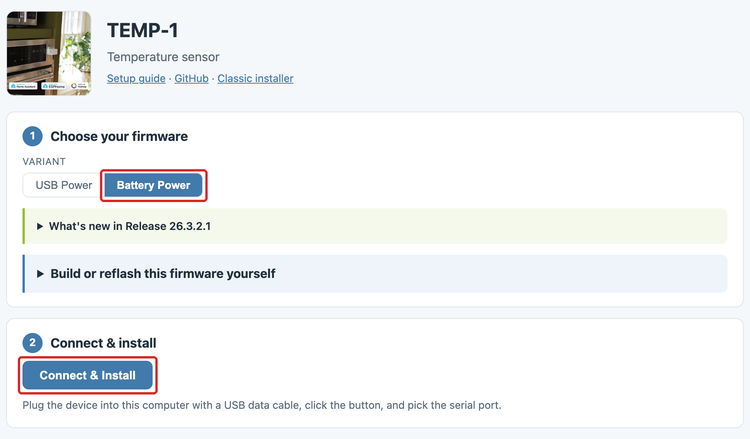
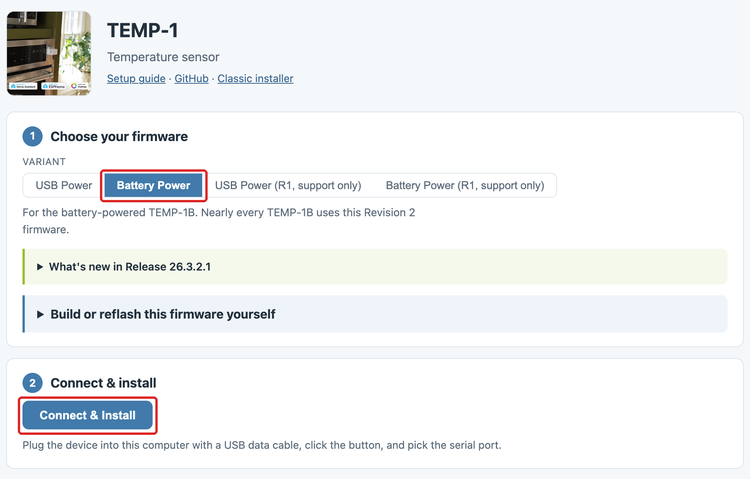
docs: point TEMP-1 Revision 1 owners at the installer's R1 options
installer#32 added "USB Power (R1, support only)" and "Battery Power
(R1, support only)" to install.apolloautomation.com/#/temp-1, so the
TEMP-1 and TEMP-1B reflash pages (Home Assistant and Homey) no longer
send Revision 1 owners to the classic installer. The tips name the R1
options, say they're for support-confirmed boards only, and warn that
the R1 firmware makes the Food Probe read far off on an R2 board.

- Retake installer-temp-1-usb-power.png and -battery-power.png from the
  live installer, which now shows four variant buttons and their notes.
- Style guide: R1 is no longer an exception to the installer rule.

Changed region(s): [[0.0307, 0.2665, 0.736, 0.6811], [0.0, 0.0, 0.3987, 0.2369], [0.0, 0.7403, 0.6747, 0.9476]]

diff --git a/docs/homey/products/temp1/troubleshooting/temp1-code.md b/docs/homey/products/temp1/troubleshooting/temp1-code.md
@@ -20,7 +20,7 @@ Follow these steps to put your device in boot mode and install the factory firmw
 
 !!! tip "Use R2 version unless instructed to use R1 by support!"
 
-    The Apollo installer installs the Revision 2 (R2) firmware. R2 is what all of our devices use except a very small batch of TEMP-1 and TEMP-1B boards. If support tells you your board needs Revision 1 (R1), click **Connect** under **Non Battery Firmware Revision 1** on the [classic TEMP-1 installer](https://apolloautomation.github.io/TEMP-1/) instead. In the next steps, the firmware option is named **Install ApolloAutomation.TEMP-1**.
+    The **USB Power** option installs the Revision 2 (R2) firmware, which nearly every TEMP-1 uses. A very small batch of early TEMP-1 and TEMP-1B boards needs Revision 1 (R1). Only if Apollo support confirms yours is one of them, choose **USB Power (R1, support only)** instead. On an R2 board, the R1 firmware makes the Food Probe read far off. With R1, the firmware option in the next steps is named **Install ApolloAutomation.TEMP-1**.
 
 ![TEMP-1 page of the Apollo installer with the USB Power variant and the Connect & Install button outlined in red](/assets/installer-temp-1-usb-power.png)
 

diff --git a/docs/products/temp1/troubleshooting/temp1-code.md b/docs/products/temp1/troubleshooting/temp1-code.md
@@ -23,7 +23,7 @@ Follow these steps to put your TEMP-1 in boot mode, flash the factory firmware f
 
 !!! tip "Use R2 unless support tells you to use R1"
 
-    The Apollo installer installs the Revision 2 (R2) firmware. R2 is what all of our devices use, except a very small batch of TEMP-1 and TEMP-1B boards. Support will tell you if yours needs Revision 1 (R1). If it does, click **Connect** under **Non Battery Firmware Revision 1** on the [classic TEMP-1 installer](https://apolloautomation.github.io/TEMP-1/) instead. In the next steps, the firmware option is named **Install ApolloAutomation.TEMP-1**.
+    The **USB Power** option installs the Revision 2 (R2) firmware, which nearly every TEMP-1 uses. A very small batch of early TEMP-1 and TEMP-1B boards needs Revision 1 (R1). Only if Apollo support confirms yours is one of them, choose **USB Power (R1, support only)** instead. On an R2 board, the R1 firmware makes the Food Probe read far off. With R1, the firmware option in the next steps is named **Install ApolloAutomation.TEMP-1**.
 
 4\. In the browser's serial port pop-up, select the open COM port (**USB JTAG/serial debug unit** in the screenshot below), then click **Connect**.
 

diff --git a/docs/homey/products/temp1b/troubleshooting/temp1b-code.md b/docs/homey/products/temp1b/troubleshooting/temp1b-code.md
@@ -24,7 +24,7 @@ If your device has already been added to Homey, please <a href="https://wiki.apo
 
 !!! tip "Use R2 version unless instructed to use R1 by support!"
 
-    The Apollo installer installs the Revision 2 (R2) firmware. R2 is what all of our devices use except a very small batch of TEMP-1 and TEMP-1B boards. If support tells you your board needs Revision 1 (R1), click **Connect** under **Battery Firmware Revision 1** on the [classic TEMP-1 installer](https://apolloautomation.github.io/TEMP-1/) instead. In the next steps, the firmware option is named **Install ApolloAutomation.TEMP-1B**.
+    The **Battery Power** option installs the Revision 2 (R2) firmware, which nearly every TEMP-1B uses. A very small batch of early TEMP-1 and TEMP-1B boards needs Revision 1 (R1). Only if Apollo support confirms yours is one of them, choose **Battery Power (R1, support only)** instead. On an R2 board, the R1 firmware makes the Food Probe read far off. With R1, the firmware option in the next steps is named **Install ApolloAutomation.TEMP-1B**.
 
 4\. Select the open com port then click Connect.
 

diff --git a/docs/products/temp1b/troubleshooting/temp1b-code.md b/docs/products/temp1b/troubleshooting/temp1b-code.md
@@ -26,7 +26,7 @@ Follow these steps to put your device in boot mode and install the factory firmw
 
 !!! tip "Use R2 version unless instructed to use R1 by support!"
 
-    The Apollo installer installs the Revision 2 (R2) firmware. R2 is what all of our devices use except a very small batch of TEMP-1 and TEMP-1B boards. If support tells you your board needs Revision 1 (R1), click **Connect** under **Battery Firmware Revision 1** on the [classic TEMP-1 installer](https://apolloautomation.github.io/TEMP-1/) instead. In the next steps, the firmware option is named **Install ApolloAutomation.TEMP-1B**.
+    The **Battery Power** option installs the Revision 2 (R2) firmware, which nearly every TEMP-1B uses. A very small batch of early TEMP-1 and TEMP-1B boards needs Revision 1 (R1). Only if Apollo support confirms yours is one of them, choose **Battery Power (R1, support only)** instead. On an R2 board, the R1 firmware makes the Food Probe read far off. With R1, the firmware option in the next steps is named **Install ApolloAutomation.TEMP-1B**.
 
 4\. Select the open com port then click Connect.
 

diff --git a/STYLE_GUIDE.md b/STYLE_GUIDE.md
@@ -192,10 +192,10 @@ the installer shows them: the variant (**USB Power**, **Battery Power**,
 then **Connect & Install**, and the firmware option in the next dialog
 exactly as listed (for example **Install ApolloAutomation.AIR-1**). The
 B models use their parent's page with **Battery Power** (TEMP-1B on
-`#/temp-1`, PLT-1B on `#/plt-1`). Keep the older installer link only
-where the Apollo installer has no equivalent: TEMP-1 Revision 1
-firmware. The LED-1 uses the official WLED installer at
-`https://install.wled.me/`.
+`#/temp-1`, PLT-1B on `#/plt-1`). Revision 1 TEMP-1 and TEMP-1B builds
+are the **(R1, support only)** options on `#/temp-1`; mention them only
+as a support-confirmed exception. The LED-1 uses the official WLED
+installer at `https://install.wled.me/`.
 
 **Boot mode with two buttons.** When a step uses both the boot and reset
 buttons, write the order as three bullets (press and hold **boot**; while
